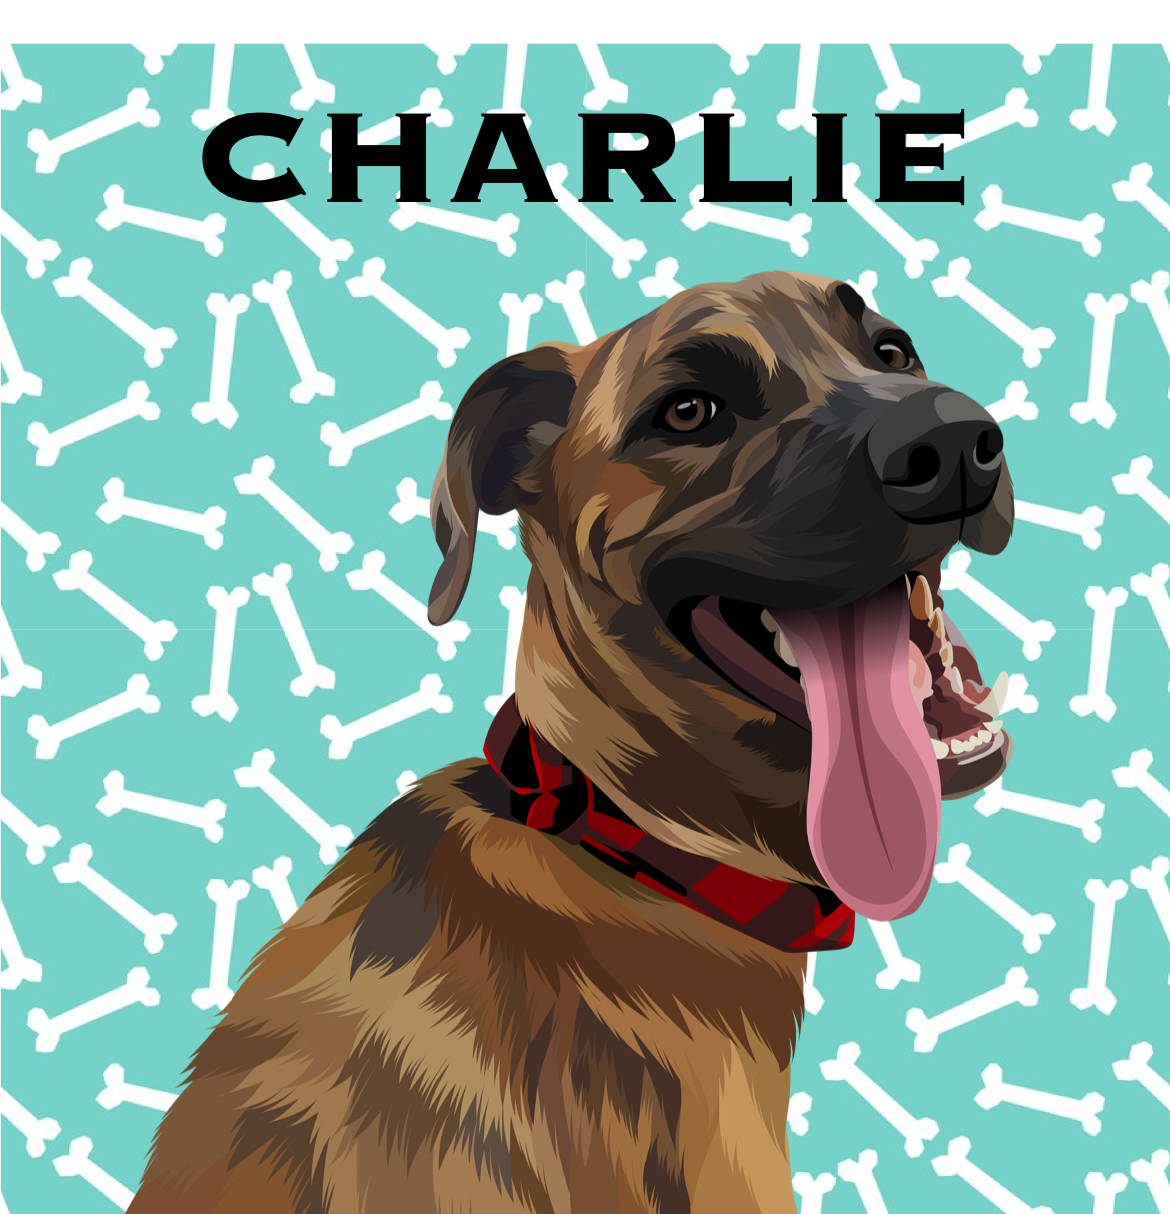
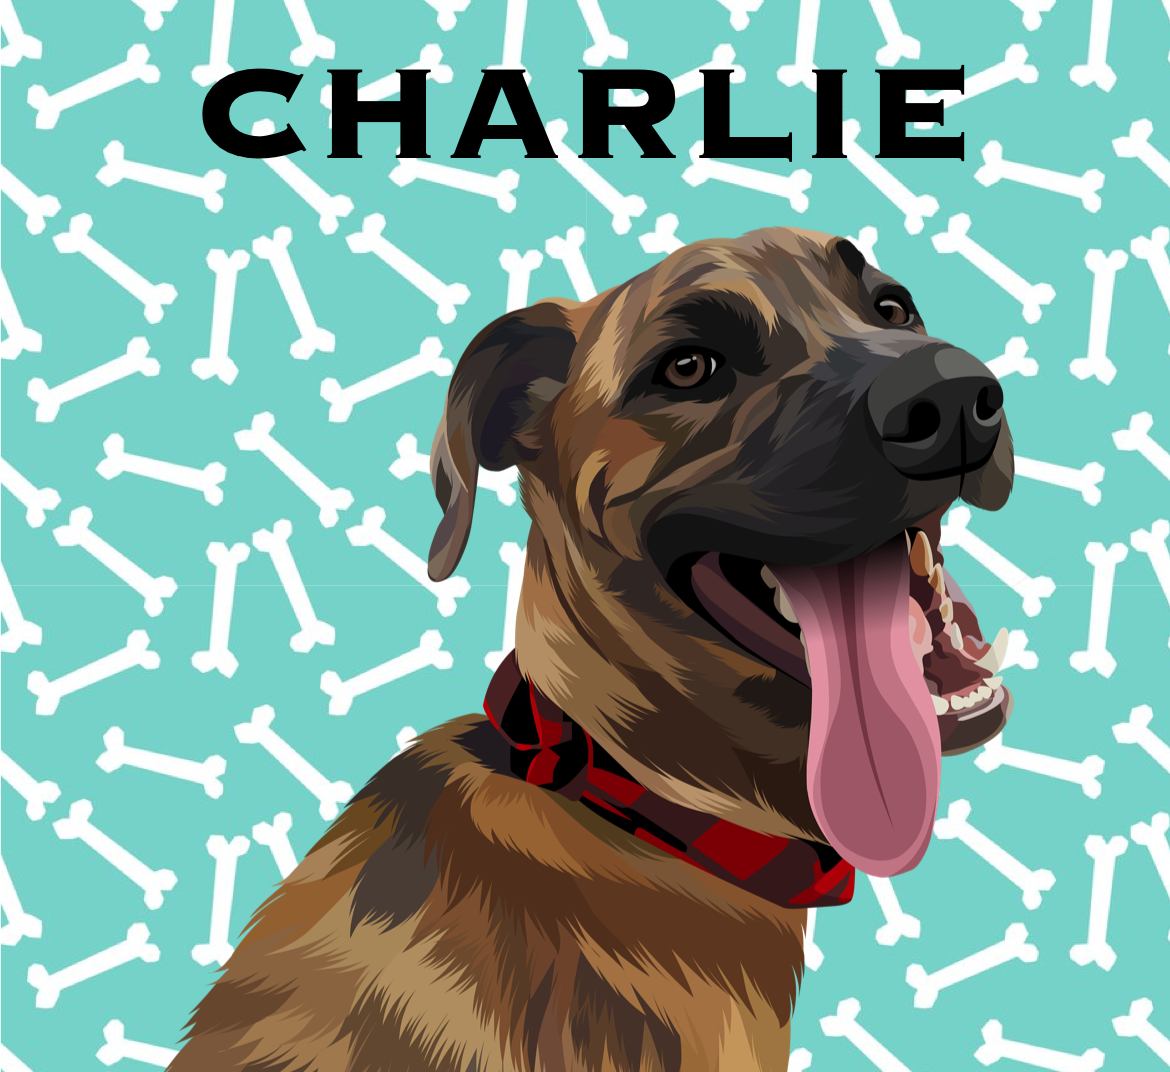
Multiple changes, squash later.

diff --git a/_pages/research.md b/_pages/research.md
@@ -2,23 +2,28 @@
 layout: splash
 title:  "Research"
 permalink: /research/
-date:   2017-08-04
+date:   2020-06-20
 categories: pages
 projects:
   - url: "https://wilmerlab.github.io/research/"
-    image_path: /assets/img/research/SAW_Array.png
+    image_path: /assets/img/research/eNose.png
     title: "Electronic Nose"
     excerpt: "MOF-based Gas Sensing Array."
     btn_label: "Read More"
     btn_class: "btn--primary"
   - url: "https://wilmerlab.github.io/research/"
-    image_path: /assets/img/research/CharliePic.png
+    image_path: /assets/img/research/eMOF.png
     title: "Electrical Conductivity of MOFs"
     excerpt: "DFT screening and ranking of MOFs for electrical conductivity."
+    btn_label: "Read More"
+    btn_class: "btn--primary"
+  - url: "https://www.instagram.com/charlesceserebenedicioxii/"
+    image_path: /assets/img/research/CharliePic.png
+    title: "Not Research, Just my dog."
+    excerpt: "Isn't he awesome?!"
     btn_label: "Read More"
     btn_class: "btn--primary"
 
 ---
 ## Research Projects
-### N.B. This page is still currently under development!
 {% include feature_row id="projects" caption="Research projects."%}

diff --git a/_pages/publications.md b/_pages/publications.md
@@ -1,0 +1,30 @@
+---
+layout: splash
+title:  "Publications"
+permalink: /publications/
+date:   2020-06-20
+categories: pages
+
+2020_day_co2_sensing:
+  - image_path: /assets/img/publications/2020_day_co2_sensing.png
+    alt: "2020_day_co2_sensing"
+    title: "Genetic algorithm design of MOF-based gas sensor array for CO<sub>2</sub>-in-air sensing"
+    excerpt: "**41.** [B. A. Day and C. E. Wilmer, Genetic algorithm design of MOF-based gas sensor array for CO<sub>2</sub>-in-air sensing. *Sensors*, 20, 924, **(2020)**.](https://www.mdpi.com/1424-8220/20/3/924)"
+
+---
+<p> </p>
+
+Publications
+============
+
+<table style="width:100%">
+  <tr>
+    <th><a href="#2020" class="btn btn--primary">2020</a></th>
+  </tr>
+</table>
+--------------------------------------------------------------
+
+2020
+----
+
+{% include feature_row id="2020_day_co2_sensing" type="left" %}
